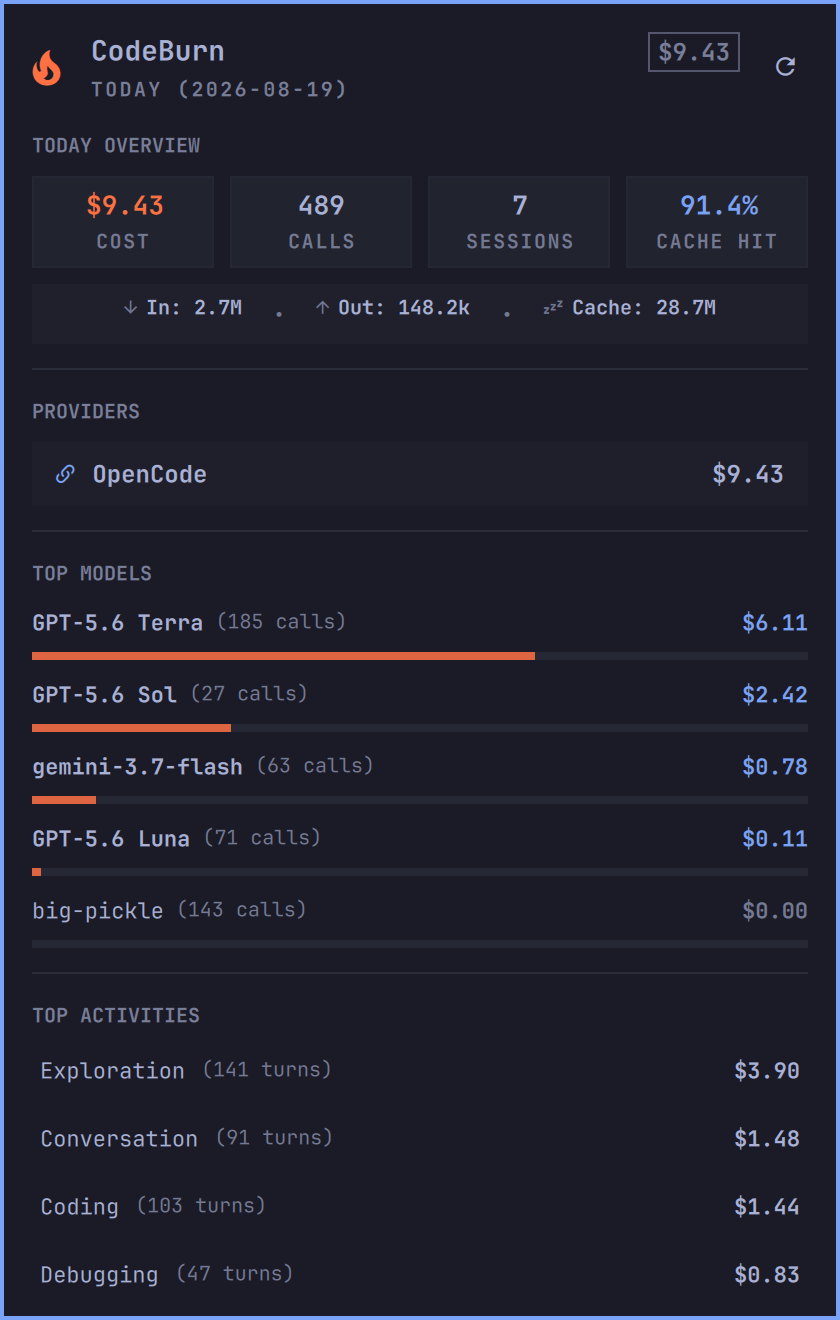
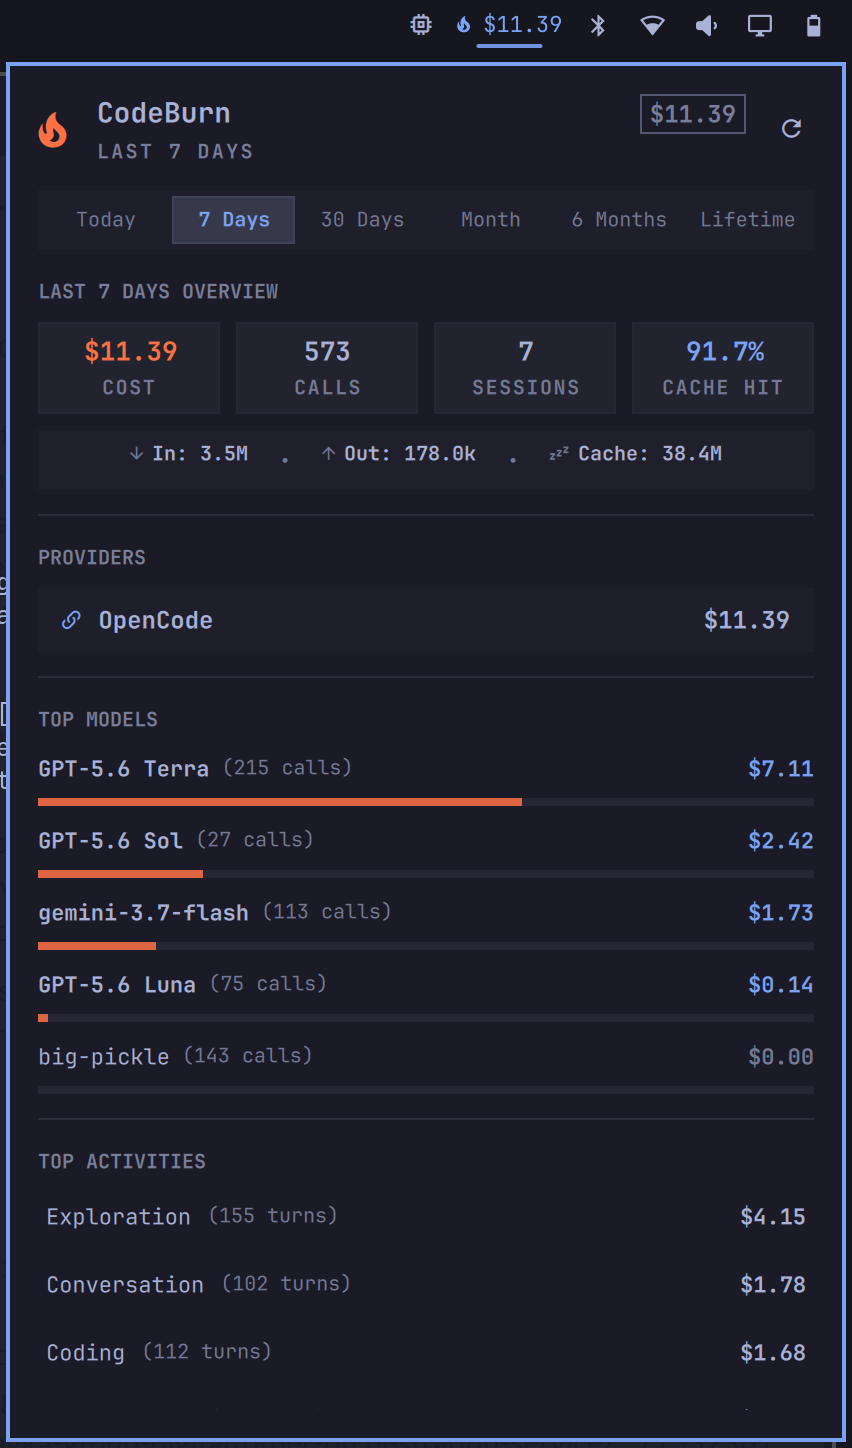
feat: add selectable reporting periods

diff --git a/Panel.qml b/Panel.qml
@@ -24,6 +24,44 @@ Panel {
   }
   readonly property int refreshIntervalSec: Math.max(60, Number(setting("refreshIntervalSec", 300)) || 300)
 
+  // Reporting Periods
+  property string selectedPeriod: "today"
+  readonly property var periods: [
+    { id: "today", label: "Today" },
+    { id: "week", label: "7 Days" },
+    { id: "30days", label: "30 Days" },
+    { id: "month", label: "Month" },
+    { id: "all", label: "6 Months" },
+    { id: "lifetime", label: "Lifetime" }
+  ]
+
+  function periodLabel(id) {
+    for (var i = 0; i < periods.length; i++) {
+      if (periods[i].id === id) return periods[i].label
+    }
+    return "Today"
+  }
+
+  readonly property string selectedPeriodLabel: periodLabel(selectedPeriod)
+
+  function selectPeriod(periodId) {
+    if (selectedPeriod === periodId) return
+    selectedPeriod = periodId
+    refresh()
+  }
+
+  function cyclePeriod(direction) {
+    var currentIndex = 0
+    for (var i = 0; i < periods.length; i++) {
+      if (periods[i].id === selectedPeriod) {
+        currentIndex = i
+        break
+      }
+    }
+    var nextIndex = (currentIndex + direction + periods.length) % periods.length
+    selectPeriod(periods[nextIndex].id)
+  }
+
   property var statusData: null
   property bool refreshing: false
   property bool hasError: false
@@ -51,7 +89,7 @@ Panel {
   readonly property string barCostText: isOnline ? formatCost(cost) : "--"
   readonly property string barStatusText: " " + barCostText
   readonly property string barTooltipText: isOnline
-    ? "CodeBurn: " + formatCost(cost) + " today · " + calls + " calls · " + sessions + " sessions (right-click to refresh)"
+    ? "CodeBurn (" + selectedPeriodLabel + "): " + formatCost(cost) + " · " + calls + " calls · " + sessions + " sessions (right-click to refresh)"
     : "CodeBurn: status unavailable (right-click to refresh)"
 
   visible: true
@@ -137,7 +175,7 @@ Panel {
 
   Process {
     id: statusProcess
-    command: [root.statusCommand]
+    command: [root.statusCommand, root.selectedPeriod]
     running: false
 
     stdout: StdioCollector {
@@ -182,6 +220,19 @@ Panel {
     onTriggered: root.nowMs = Date.now()
   }
 
+  IpcHandler {
+    target: root.ipcTarget
+    function open(): void { root.open() }
+    function close(): void { root.close() }
+    function show(): void { root.open() }
+    function hide(): void { root.close() }
+    function toggle(): void { root.toggle() }
+    function refresh(): string { root.refresh(); return "ok" }
+    function setPeriod(p: string): string { root.selectPeriod(p); return "ok" }
+    function nextPeriod(): string { root.cyclePeriod(1); return "ok" }
+    function prevPeriod(): string { root.cyclePeriod(-1); return "ok" }
+  }
+
   WidgetButton {
     id: button
     anchors.fill: parent
@@ -207,14 +258,16 @@ Panel {
     open: root.opened
     focusTarget: keyCatcher
     contentWidth: panel.fittedContentWidth(Style.space(420))
-    contentHeight: panel.fittedContentHeight(contentColumn.implicitHeight, Style.space(660))
+    contentHeight: panel.fittedContentHeight(contentColumn.implicitHeight, Style.space(690))
 
     PanelKeyCatcher {
       id: keyCatcher
       anchors.fill: parent
 
       onMoveRequested: function(dx, dy) {
-        if (dy !== 0 && panelFlick) {
+        if (dx !== 0) {
+          root.cyclePeriod(dx > 0 ? 1 : -1)
+        } else if (dy !== 0 && panelFlick) {
           panelFlick.contentY = Math.max(0, Math.min(
             panelFlick.contentY + dy * Style.space(60),
             Math.max(0, panelFlick.contentHeight - panelFlick.height)
@@ -226,6 +279,14 @@ Panel {
       onTabRequested: function(direction) { root.switchPanel(direction) }
       onTextKey: function(text) {
         if (text === "r" || text === "R") root.refresh()
+        else if (text === "1") root.selectPeriod("today")
+        else if (text === "2") root.selectPeriod("week")
+        else if (text === "3") root.selectPeriod("30days")
+        else if (text === "4") root.selectPeriod("month")
+        else if (text === "5") root.selectPeriod("all")
+        else if (text === "6") root.selectPeriod("lifetime")
+        else if (text === "]" || text === "p") root.cyclePeriod(1)
+        else if (text === "[" || text === "P") root.cyclePeriod(-1)
       }
 
       Flickable {
@@ -249,7 +310,7 @@ Panel {
             width: parent.width
             title: "CodeBurn"
             meta: root.isOnline
-              ? (root.current && root.current.label ? String(root.current.label).toUpperCase() : "AI SPEND & USAGE")
+              ? (root.current && root.current.label ? String(root.current.label).toUpperCase() : root.selectedPeriodLabel.toUpperCase())
               : "STATUS"
             detail: root.isOnline ? root.formatCost(root.cost) : "Offline"
             foreground: root.foreground
@@ -271,6 +332,65 @@ Panel {
                 foreground: root.foreground
                 fontFamily: root.fontFamily
                 onClicked: root.refresh()
+              }
+            }
+          }
+
+          // --------------------------------------------------- PERIOD SELECTOR
+          BorderSurface {
+            width: parent.width
+            implicitHeight: periodRow.implicitHeight + Style.space(6)
+            radius: Style.cornerRadius
+            color: Qt.rgba(root.foreground.r, root.foreground.g, root.foreground.b, 0.03)
+            borderSpec: Border.none()
+
+            Row {
+              id: periodRow
+              anchors.centerIn: parent
+              width: parent.width - Style.space(6)
+              spacing: Style.space(3)
+
+              Repeater {
+                model: root.periods
+
+                Item {
+                  required property var modelData
+                  required property int index
+
+                  width: (periodRow.width - (root.periods.length - 1) * periodRow.spacing) / root.periods.length
+                  implicitHeight: Style.space(24)
+
+                  readonly property bool isSelected: root.selectedPeriod === modelData.id
+                  readonly property bool isHot: segMouse.containsMouse
+
+                  BorderSurface {
+                    anchors.fill: parent
+                    radius: Style.cornerRadius
+                    color: isSelected
+                      ? Style.selectedFillFor(root.accentColor, root.accentColor)
+                      : (isHot ? Style.hoverFillFor(root.foreground, root.foreground) : "transparent")
+                    borderSpec: isSelected
+                      ? Border.controlSpec("focus", root.accentColor, root.accentColor)
+                      : Border.none()
+
+                    Text {
+                      anchors.centerIn: parent
+                      text: modelData.label
+                      color: isSelected ? root.accentColor : (isHot ? root.foreground : root.dim)
+                      font.family: root.fontFamily
+                      font.pixelSize: Style.font.caption
+                      font.bold: isSelected
+                    }
+
+                    MouseArea {
+                      id: segMouse
+                      anchors.fill: parent
+                      hoverEnabled: true
+                      cursorShape: Qt.PointingHandCursor
+                      onClicked: root.selectPeriod(modelData.id)
+                    }
+                  }
+                }
               }
             }
           }
@@ -351,7 +471,7 @@ Panel {
             spacing: Style.space(8)
 
             PanelSectionHeader {
-              text: "TODAY OVERVIEW"
+              text: (root.current && root.current.label ? String(root.current.label).toUpperCase() : root.selectedPeriodLabel.toUpperCase()) + " OVERVIEW"
               foreground: root.foreground
               fontFamily: root.fontFamily
             }
@@ -613,7 +733,7 @@ Panel {
               spacing: Style.space(8)
 
               Text {
-                text: "[R] Refresh  ·  [Esc] Close"
+                text: "[←/→] Period  ·  [R] Refresh  ·  [Esc] Close"
                 color: root.dim
                 font.family: root.fontFamily
                 font.pixelSize: Style.font.caption

diff --git a/README.md b/README.md
@@ -14,16 +14,23 @@
 
 ## Features
 
-- **Concise Bar Badge**: Displays daily spend at a glance (e.g. ` $7.85`) with automatic 5-minute background caching and refresh.
+- **Concise Bar Badge**: Displays spend at a glance (e.g. ` $10.70`) with automatic 5-minute background caching and refresh.
+- **Selectable Reporting Periods**: Switch reporting ranges on the fly with a single click or keystroke:
+  - **Today** (default)
+  - **7 Days**
+  - **30 Days**
+  - **Month**
+  - **6 Months**
+  - **Lifetime**
 - **Rich Analytics Popup**:
-  - **Today Overview**: Total cost, API call count, active sessions, and cache hit rate percentage.
+  - **Period Overview**: Total cost, API call count, active sessions, and cache hit rate percentage.
   - **Token Throughput Strip**: Real-time input, output, and cache read tokens.
   - **Provider Spend Breakdown**: Granular cost tracking by provider (OpenCode, OpenAI, Anthropic, Fireworks, etc.).
   - **Top Models Breakdown**: Token spend per model with proportional visual burn distribution meters.
   - **Activity Breakdown**: Spend and turn counts grouped by activity (Exploration, Coding, Debugging, etc.).
 - **Zero Configuration Required**: Uses `npx --yes codeburn status --format menubar-json` out of the box or automatically leverages a locally installed `codeburn` binary if available.
 - **Unobtrusive Recovery UX**: When offline or if usage logs are uninitialized, displays a graceful recovery hint rather than intrusive error dialogs.
-- **Full Keyboard Navigation**: Supports standard Omarchy shortcuts (`R` to refresh, `Esc` to close, `Tab` / Arrow keys for navigation).
+- **Full Keyboard Navigation**: Supports standard Omarchy shortcuts (`←` / `→` for periods, `1`–`6` for direct jumps, `R` to refresh, `Esc` to close).
 
 ---
 
@@ -58,6 +65,8 @@ omarchy bar move codeburn --after omarchy.agents
 - **Left-Click**: Toggle the CodeBurn details popup.
 - **Right-Click**: Instantly trigger a live background data refresh.
 - **Keyboard Shortcuts** (while popup is open):
+  - `←` / `→` or `[` / `]` — Cycle through reporting periods
+  - `1` to `6` — Direct jump to period (1: Today, 2: 7 Days, 3: 30 Days, 4: Month, 5: 6 Months, 6: Lifetime)
   - `R` — Refresh data immediately
   - `Esc` — Close popup
   - `Tab` / `Shift+Tab` — Switch between adjacent Omarchy panels

diff --git a/CHANGELOG.md b/CHANGELOG.md
@@ -2,14 +2,24 @@
 
 All notable changes to the CodeBurn Omarchy shell plugin will be documented in this file.
 
+## [1.1.0] - 2026-08-19
+
+### Added
+- **Selectable Reporting Periods**: Switch reporting ranges directly inside the popup across **Today**, **7 Days**, **30 Days**, **Month**, **6 Months**, and **Lifetime**.
+- **Keyboard Period Navigation**: Cycle periods using `←` / `→` arrows, `[` / `]`, or jump instantly using number keys `1`–`6`.
+- **Fast Status Querying**: Added `--no-optimize --no-timeline` flags to background queries for lower latency and reduced JSON payload.
+- **Session Persistence**: Retains selected period across popup toggles for the duration of the shell session.
+- **Dynamic Bar Tooltip**: Shows active reporting period name alongside spend, calls, and session statistics.
+- **IPC Handlers**: Added `setPeriod`, `nextPeriod`, and `prevPeriod` methods for scriptable shell control.
+
 ## [1.0.0] - 2026-08-19
 
 ### Added
 - Initial release of the CodeBurn status bar widget for Omarchy.
 - Concise bar badge displaying real-time daily AI spend (` $X.XX`).
-- Detailed interactive popup panel with today's overview (Cost, Calls, Sessions, Cache Hit rate).
+- Detailed interactive popup panel with overview metrics (Cost, Calls, Sessions, Cache Hit rate).
 - Secondary token throughput breakdown (Input, Output, Cache read).
-- Real-time provider spend breakdown (OpenCode, etc.).
+- Real-time provider spend breakdown (OpenCode, Anthropic, OpenAI, etc.).
 - Top model consumption listing with proportional visual burn distribution meters.
 - Task activity breakdown (Exploration, Coding, Conversation, Debugging).
 - Resilient non-blocking background polling with auto-discovery of local `codeburn` CLI or `npx --yes codeburn`.
